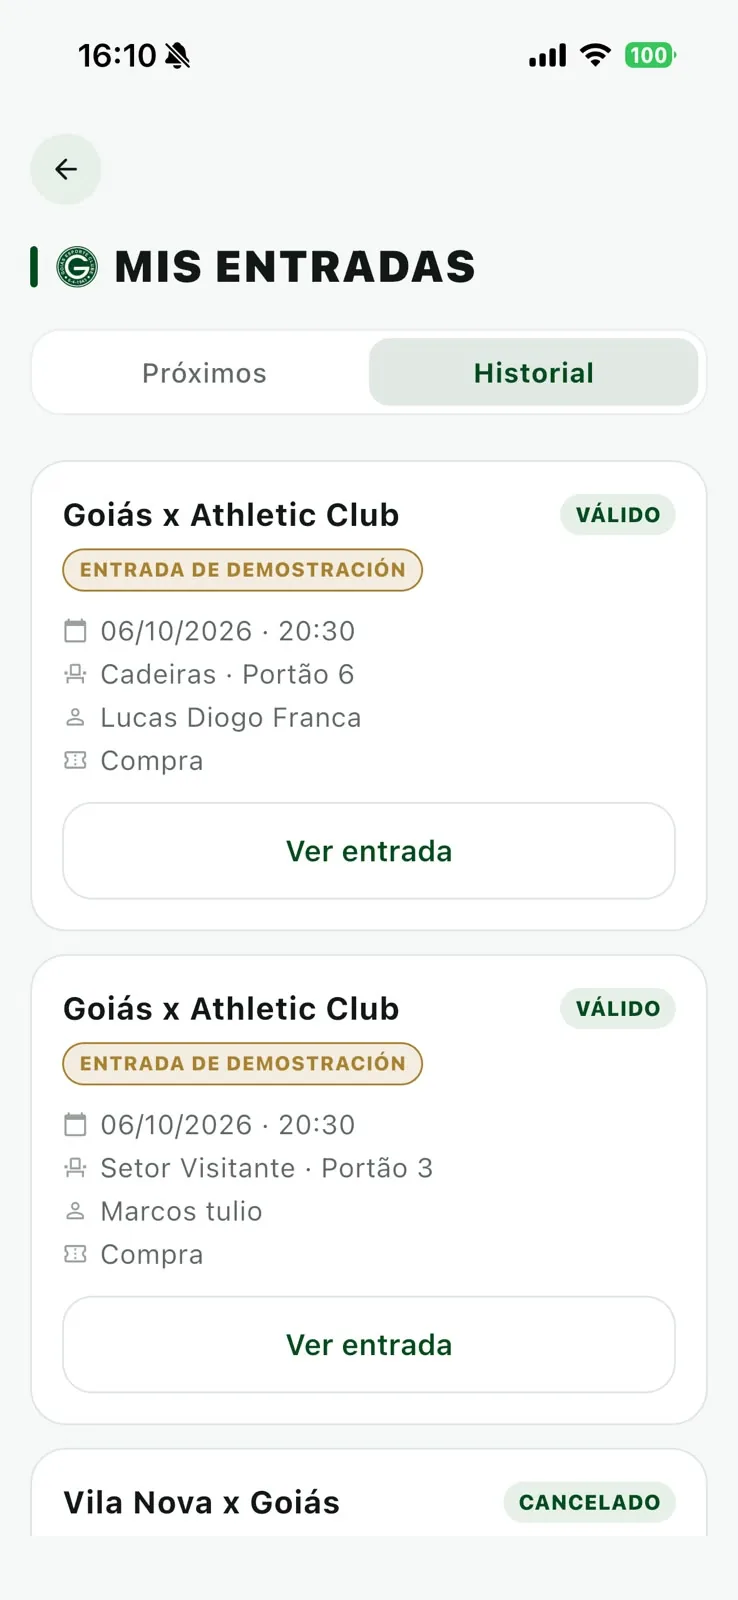
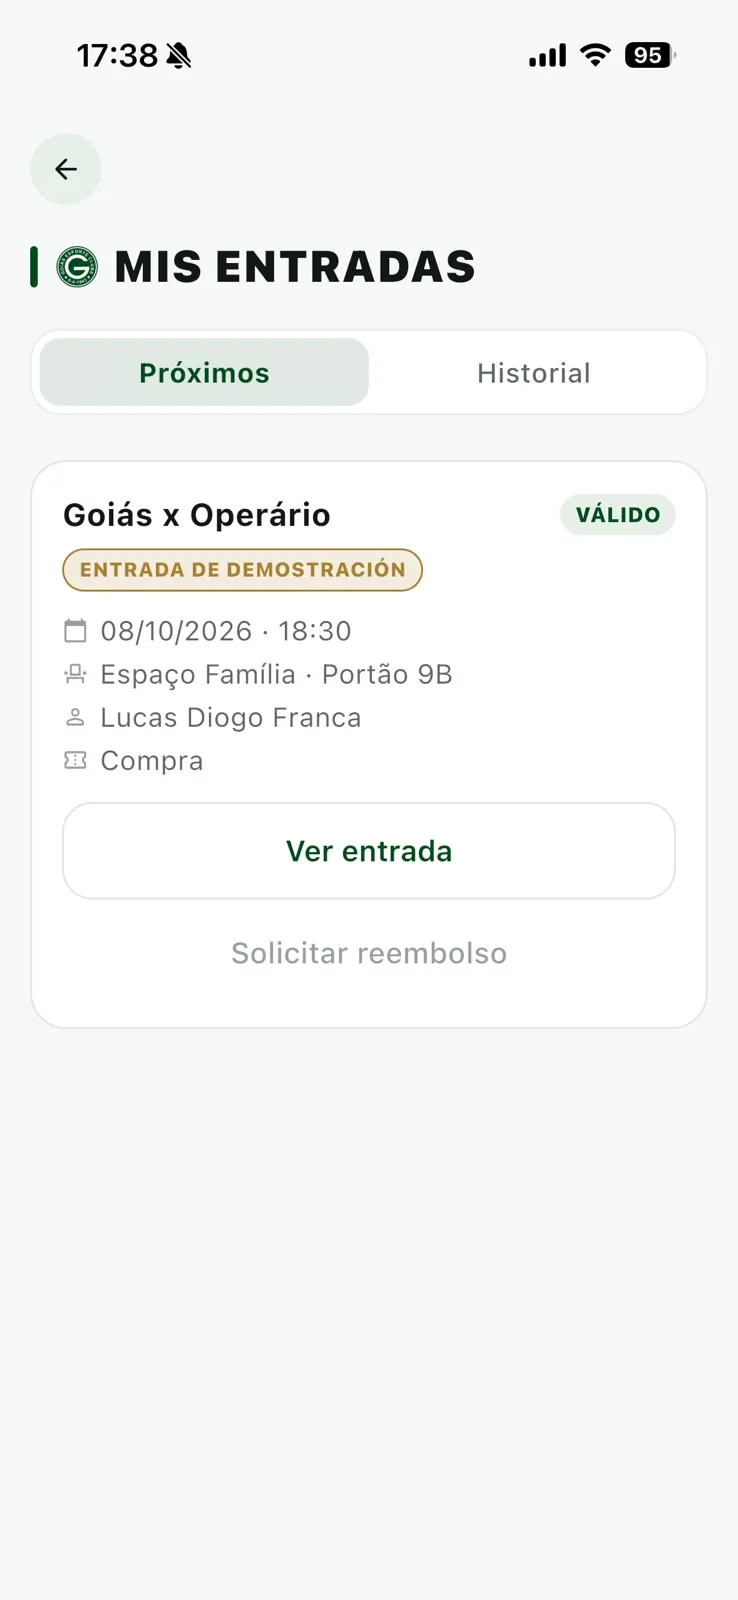
Apps: add Tabela Fone (RetailTech); Goiás App EN/ES ticket and lineup screens, no personal data

diff --git a/tests/i18n.test.js b/tests/i18n.test.js
@@ -85,10 +85,10 @@ check(fake.store[Loc.STORAGE_KEY] === "es" && Object.keys(fake.store).length ===
 var actx = { window: {} };
 vm.runInNewContext(read("assets/js/apps-data.js"), actx);
 var A = actx.window.LUCKSREI_APPS;
-check(A.apps.length === 32, "dataset deve continuar com 32 apps, tem " + A.apps.length);
+check(A.apps.length === 33, "dataset deve continuar com 33 apps, tem " + A.apps.length);
 var ids = {};
 A.apps.forEach(function (a) { check(!ids[a.id], "app duplicado: " + a.id); ids[a.id] = 1; });
-check(Object.keys(ids).length === 32, "idiomas não devem duplicar apps");
+check(Object.keys(ids).length === 33, "idiomas não devem duplicar apps");
 A.apps.forEach(function (a) {
   if (a.subtitle && typeof a.subtitle === "object") Loc.SUPPORTED.forEach(function (l) { check(typeof a.subtitle[l] === "string" && a.subtitle[l], a.id + ": subtitle sem " + l); });
   if (a.subtitleKey) Loc.SUPPORTED.forEach(function (l) { check(D[l][a.subtitleKey], a.id + ": subtitleKey ausente em " + l); });
@@ -168,10 +168,10 @@ check(Shots.slotFor("lapelve", "home", "en").src.indexOf("/screens/en/home.webp"
 check(Shots.slotFor("lapelve", "home", "pt-BR").src.indexOf("/screens/pt-BR/home.webp") > 0, "la pelve home pt-BR usa a versão pt-BR");
 check(Shots.slotFor("lapelve", "home", "es") === null, "la pelve home es inexistente → null (sem fallback)");
 var model = Shots.buildScreenshots("fanhub", "b2", function (k, v, l) { return D[l][k]; });
-check(model["pt-BR"].length === 12 && Shots.blockFor("fanhub", "b3", "pt-BR").length === 11 && Shots.blockFor("fanhub", "b4", "pt-BR").length === 7 && Shots.blockFor("fanhub", "b5", "pt-BR").length === 10 && Shots.blockFor("fanhub", "b5", "en").length === 8 && model.en.length === 12 && Shots.blockFor("fanhub", "b3", "en").length === 11 && Shots.blockFor("fanhub", "b4", "en").map(function (s) { return s.id; }).join() === "my-tickets,ticket,member-signup" && model.es.length === 12 && Shots.blockFor("fanhub", "b3", "es").length === 11 && Shots.blockFor("fanhub", "b4", "es").map(function (s) { return s.id; }).join() === "my-tickets,ticket,member-signup" && Shots.blockFor("fanhub", "b5", "es").length === 8, "modelo por locale do fan hub (pt-BR completo, en e es parciais)");
+check(model["pt-BR"].length === 12 && Shots.blockFor("fanhub", "b3", "pt-BR").length === 11 && Shots.blockFor("fanhub", "b4", "pt-BR").length === 7 && Shots.blockFor("fanhub", "b5", "pt-BR").length === 10 && Shots.blockFor("fanhub", "b5", "en").length === 8 && model.en.length === 12 && Shots.blockFor("fanhub", "b3", "en").length === 11 && Shots.blockFor("fanhub", "b4", "en").map(function (s) { return s.id; }).join() === "tickets,ticket-sectors,purchase,purchased,my-tickets,ticket,member-signup" && model.es.length === 12 && Shots.blockFor("fanhub", "b3", "es").length === 11 && Shots.blockFor("fanhub", "b4", "es").map(function (s) { return s.id; }).join() === "tickets,ticket-sectors,purchase,purchased,my-tickets,ticket,member-signup" && Shots.blockFor("fanhub", "b5", "es").length === 10, "modelo por locale do fan hub (pt-BR e es completos; en sem crowd/pitch)");
 check(["play", "queue-search", "teams-explore", "central", "players", "player-detail", "market"].every(function (s) { return Shots.slotFor("matchqueue", s, "es") && fs.existsSync(path.join(root, "assets/img/match-queue/screens/es", s + ".webp")); }), "match queue: telas em espanhol existem no manifesto e em disco");
 check(Shots.blockFor("fanhub", "b2", "pt-BR").every(function (s) { return fs.existsSync(path.join(root, s.src.replace(/^\//, ""))); }), "fan hub b2: todo arquivo do manifesto existe");
 check(model["pt-BR"].every(function (x) { return x.src.indexOf("/pt-BR/") > 0 && x.alt; }), "itens do modelo têm src e alt do próprio idioma");
 
 if (failures.length) { console.error("FALHOU:\n - " + failures.join("\n - ")); process.exit(1); }
-console.log("ok — i18n: " + enKeys.length + " strings × 3 locales; " + proj.length + " projetos de screenshots; 32 apps");
+console.log("ok — i18n: " + enKeys.length + " strings × 3 locales; " + proj.length + " projetos de screenshots; 33 apps");

diff --git a/assets/i18n/es.js b/assets/i18n/es.js
@@ -199,7 +199,7 @@
   "apps.own_tag": "Producto propio",
   "apps.private": "Proyecto privado",
   "apps.s1.div1": "<a href=\"/\">Lucksrei</a> / Apps",
-  "apps.s1.div2": "<span class=\"chip\">Fintech</span><span class=\"chip\">Banking white-label</span> <span class=\"chip\">InsurTech</span><span class=\"chip\">AgroTech</span> <span class=\"chip\">GovTech</span><span class=\"chip\">Movilidad</span> <span class=\"chip\">Educación</span><span class=\"chip\">Salud</span> <span class=\"chip\">Deportes</span><span class=\"chip\">Games</span>",
+  "apps.s1.div2": "<span class=\"chip\">Fintech</span><span class=\"chip\">Banking white-label</span> <span class=\"chip\">InsurTech</span><span class=\"chip\">AgroTech</span> <span class=\"chip\">GovTech</span><span class=\"chip\">Movilidad</span> <span class=\"chip\">Educación</span><span class=\"chip\">Salud</span> <span class=\"chip\">Deportes</span><span class=\"chip\">Games</span><span class=\"chip\">RetailTech</span>",
   "apps.s1.h11": "Apps y productos",
   "apps.s1.p1": "Apps en las que trabajé, desde productos propios hasta marcas white-label. Los case studies de mis productos están en <a href=\"/#projetos\">Proyectos</a>.",
   "apps.s1.span1": "Amplitud",
@@ -216,6 +216,7 @@
   "apps.sector.insurtech": "InsurTech",
   "apps.sector.management": "Gestión",
   "apps.sector.mobility": "Movilidad",
+  "apps.sector.retailtech": "RetailTech",
   "apps.sector.sports": "Deportes",
   "apps.store_android_aria": "Ver {name} en Google Play (se abre en una pestaña nueva)",
   "apps.store_ios_aria": "Ver {name} en la App Store (se abre en una pestaña nueva)",
@@ -516,7 +517,7 @@
   "shots.fanhub.tickets.alt": "Pantalla de entradas con el próximo evento, botón de compra y acceso rápido a mis entradas y pedidos",
   "shots.fanhub.tickets.caption": "Compra de entradas desde el próximo partido.",
   "shots.fanhub.tickets.title": "Entradas",
-  "shots.fanhub.ticket-sectors.alt": "Selección de sector y cantidad de entradas por categoría, con el sector visitante",
+  "shots.fanhub.ticket-sectors.alt": "Selección de sector y cantidad de entradas por categoría, con sectores de la hinchada local y precios",
   "shots.fanhub.ticket-sectors.caption": "Sector, categoría y cantidad en una pantalla.",
   "shots.fanhub.ticket-sectors.title": "Sectores",
   "shots.fanhub.purchase.alt": "Resumen de la compra con ítems, total, datos de los titulares y aviso de demostración",
@@ -525,7 +526,7 @@
   "shots.fanhub.purchased.alt": "Confirmación de entrada comprada con acceso directo a Mis entradas",
   "shots.fanhub.purchased.caption": "Confirmación con acceso directo a la entrada.",
   "shots.fanhub.purchased.title": "Compra completada",
-  "shots.fanhub.my-tickets.alt": "Historial de entradas con el sello de demostración y el estado de cada una, válida o cancelada",
+  "shots.fanhub.my-tickets.alt": "Mis entradas con una entrada de demostración próxima y válida, su sector, titular y opción de reembolso",
   "shots.fanhub.my-tickets.caption": "Entradas próximas e historial.",
   "shots.fanhub.my-tickets.title": "Mis entradas",
   "shots.fanhub.ticket.alt": "Entrada digital con datos del partido, sector, titular y código QR, marcada como demostración",

diff --git a/assets/i18n/en.js b/assets/i18n/en.js
@@ -199,7 +199,7 @@
   "apps.own_tag": "Own product",
   "apps.private": "Private project",
   "apps.s1.div1": "<a href=\"/\">Lucksrei</a> / Apps",
-  "apps.s1.div2": "<span class=\"chip\">Fintech</span><span class=\"chip\">Banking white-label</span> <span class=\"chip\">InsurTech</span><span class=\"chip\">AgroTech</span> <span class=\"chip\">GovTech</span><span class=\"chip\">Mobility</span> <span class=\"chip\">Education</span><span class=\"chip\">Health</span> <span class=\"chip\">Sports</span><span class=\"chip\">Games</span>",
+  "apps.s1.div2": "<span class=\"chip\">Fintech</span><span class=\"chip\">Banking white-label</span> <span class=\"chip\">InsurTech</span><span class=\"chip\">AgroTech</span> <span class=\"chip\">GovTech</span><span class=\"chip\">Mobility</span> <span class=\"chip\">Education</span><span class=\"chip\">Health</span> <span class=\"chip\">Sports</span><span class=\"chip\">Games</span><span class=\"chip\">RetailTech</span>",
   "apps.s1.h11": "Apps and products",
   "apps.s1.p1": "Apps I've worked on, from my own products to white-label brands. The case studies for my own products are under <a href=\"/#projetos\">Projects</a>.",
   "apps.s1.span1": "Breadth",
@@ -216,6 +216,7 @@
   "apps.sector.insurtech": "InsurTech",
   "apps.sector.management": "Management",
   "apps.sector.mobility": "Mobility",
+  "apps.sector.retailtech": "RetailTech",
   "apps.sector.sports": "Sports",
   "apps.store_android_aria": "View {name} on Google Play (opens in a new tab)",
   "apps.store_ios_aria": "View {name} on the App Store (opens in a new tab)",
@@ -516,7 +517,7 @@
   "shots.fanhub.tickets.alt": "Tickets screen with the next event, buy button and quick access to my tickets and orders",
   "shots.fanhub.tickets.caption": "Ticket purchase from the next match.",
   "shots.fanhub.tickets.title": "Tickets",
-  "shots.fanhub.ticket-sectors.alt": "Sector and ticket quantity selection by category, with the visitors sector",
+  "shots.fanhub.ticket-sectors.alt": "Sector and ticket quantity selection by category, with home fans sectors and prices",
   "shots.fanhub.ticket-sectors.caption": "Sector, category and quantity on one screen.",
   "shots.fanhub.ticket-sectors.title": "Sectors",
   "shots.fanhub.purchase.alt": "Purchase summary with items, total, holder details and a demo notice",
@@ -525,7 +526,7 @@
   "shots.fanhub.purchased.alt": "Ticket purchase confirmation with a shortcut to My tickets",
   "shots.fanhub.purchased.caption": "Confirmation with a shortcut to the ticket.",
   "shots.fanhub.purchased.title": "Purchase complete",
-  "shots.fanhub.my-tickets.alt": "Ticket history with demo badges and the status of each ticket, valid or cancelled",
+  "shots.fanhub.my-tickets.alt": "My tickets with an upcoming demo ticket marked valid, its sector, holder and a refund option",
   "shots.fanhub.my-tickets.caption": "Upcoming tickets and history.",
   "shots.fanhub.my-tickets.title": "My tickets",
   "shots.fanhub.ticket.alt": "Digital ticket with match details, sector, holder and QR code, marked as a demo",

diff --git a/assets/js/apps-data.js b/assets/js/apps-data.js
@@ -8,7 +8,7 @@
  *   subtitle    contexto/empresa. String (nome próprio) ou { en, 'pt-BR', es }
  *   subtitleKey chave i18n alternativa ao subtitle (ex.: 'apps.ecosystem')
  *   group       'own' (meus produtos) | 'professional' | 'cooper'
- *   sector      id do setor (fintech, insurtech, agtech, govtech, mobility, management, education, health, sports, games, banking) → apps.sector.<id>
+ *   sector      id do setor (fintech, insurtech, agtech, govtech, retailtech, mobility, management, education, health, sports, games, banking) → apps.sector.<id>
  *   logo        caminho do logo; null = placeholder com iniciais.
  *               Para trocar o fallback: salve o arquivo em assets/img/apps/<id>.webp
  *               (128x128) e escreva aqui '/assets/img/apps/<id>.webp'.
@@ -27,7 +27,7 @@
  * Nenhum número de downloads/avaliação foi confirmado até aqui: tudo null.
  *
  * TOTAIS ESPERADOS (conferidos por tests/apps-data.test.js e no console da página):
- *   own 4 + professional 8 + cooper 20 = 32.
+ *   own 4 + professional 9 + cooper 20 = 33.
  */
 (function () {
   "use strict";
@@ -42,7 +42,7 @@
   }
 
   window.LUCKSREI_APPS = {
-    expected: { own: 4, professional: 8, cooper: 20, total: 32 },
+    expected: { own: 4, professional: 9, cooper: 20, total: 33 },
     featured: ['fan-hub', 'toro', 'iza', 'aprovaura', 'cooper-pay'],
     // textos dos grupos: apps.filter.<id>, apps.group.<id>.title|intro (assets/i18n)
     groups: [{ id: 'own' }, { id: 'professional' }, { id: 'cooper' }],
@@ -73,6 +73,11 @@
         androidUrl: 'https://play.google.com/store/apps/details?id=vc.com.iza.izaapp&hl=pt_BR',
         iosUrl: 'https://apps.apple.com/br/app/iza-seguradora-s-a/id1526181722',
         downloads: null, rating: null, reviewCount: null, period: '2020-10/2021-03', technologies: ['Flutter', 'Firebase'] },
+      { id: 'tabela-fone', name: 'Tabela Fone', subtitle: { en: 'Price intelligence for used phone retailers', 'pt-BR': 'Inteligência de preços para lojistas de celulares usados', es: 'Inteligencia de precios para tiendas de celulares usados' }, group: 'professional', sector: 'retailtech',
+        logo: '/assets/img/apps/tabela-fone.webp', platforms: ['android', 'ios'],
+        androidUrl: 'https://play.google.com/store/apps/details?id=com.tabelafone.app&hl=pt_BR',
+        iosUrl: 'https://apps.apple.com/br/app/tabela-fone/id6781041082',
+        downloads: null, rating: null, reviewCount: null, period: '2026-03/2026-09', technologies: ['Flutter', 'Supabase', 'Cubit/BLoC'] },
       { id: 'boosteragro', name: 'BoosterAGRO', subtitle: { en: 'Digital agriculture', 'pt-BR': 'Agricultura digital', es: 'Agricultura digital' }, group: 'professional', sector: 'agtech',
         logo: '/assets/img/apps/boosteragro.webp', platforms: ['android', 'ios'],
         androidUrl: 'https://play.google.com/store/apps/details?id=com.boosteragtech.boosteragro&hl=pt_BR',

diff --git a/assets/js/screenshots-data.js b/assets/js/screenshots-data.js
@@ -554,45 +554,85 @@
       },
       "tickets": {
         "locales": [
-          "pt-BR"
+          "pt-BR",
+          "en",
+          "es"
         ],
         "dims": {
           "pt-BR": [
             590,
             1280
+          ],
+          "en": [
+            738,
+            1600
+          ],
+          "es": [
+            738,
+            1600
           ]
         }
       },
       "ticket-sectors": {
         "locales": [
-          "pt-BR"
+          "pt-BR",
+          "en",
+          "es"
         ],
         "dims": {
           "pt-BR": [
             590,
             1280
+          ],
+          "en": [
+            738,
+            1600
+          ],
+          "es": [
+            738,
+            1600
           ]
         }
       },
       "purchase": {
         "locales": [
-          "pt-BR"
+          "pt-BR",
+          "en",
+          "es"
         ],
         "dims": {
           "pt-BR": [
             590,
             1280
+          ],
+          "en": [
+            738,
+            1600
+          ],
+          "es": [
+            738,
+            1600
           ]
         }
       },
       "purchased": {
         "locales": [
-          "pt-BR"
+          "pt-BR",
+          "en",
+          "es"
         ],
         "dims": {
           "pt-BR": [
             590,
             1280
+          ],
+          "en": [
+            738,
+            1600
+          ],
+          "es": [
+            738,
+            1600
           ]
         }
       },
@@ -703,23 +743,33 @@
       },
       "crowd": {
         "locales": [
-          "pt-BR"
+          "pt-BR",
+          "es"
         ],
         "dims": {
           "pt-BR": [
             590,
             1280
+          ],
+          "es": [
+            738,
+            1600
           ]
         }
       },
       "pitch": {
         "locales": [
-          "pt-BR"
+          "pt-BR",
+          "es"
         ],
         "dims": {
           "pt-BR": [
             590,
             1280
+          ],
+          "es": [
+            738,
+            1600
           ]
         }
       },

diff --git a/tests/apps-data.test.js b/tests/apps-data.test.js
@@ -11,9 +11,9 @@ var failures = [];
 function check(ok, msg) { if (!ok) failures.push(msg); }
 function count(g) { return d.apps.filter(function (a) { return a.group === g; }).length; }
 
-check(d.apps.length === 32, "total deve ser 32, é " + d.apps.length);
+check(d.apps.length === 33, "total deve ser 33, é " + d.apps.length);
 check(count("own") === 4, "own deve ser 4, é " + count("own"));
-check(count("professional") === 8, "professional deve ser 8, é " + count("professional"));
+check(count("professional") === 9, "professional deve ser 9, é " + count("professional"));
 check(count("cooper") === 20, "cooper deve ser 20, é " + count("cooper"));
 var ids = {};
 d.apps.forEach(function (a) {
@@ -34,11 +34,11 @@ d.apps.forEach(function (a) {
   });
 });
 
-// logos publicadas: 32 WebP, todas referenciadas, nenhuma via /src/
+// logos publicadas: 33 WebP, todas referenciadas, nenhuma via /src/
 var published = fs.readdirSync(path.join(root, "assets/img/apps")).filter(function (n) { return /\.webp$/.test(n); });
-check(published.length === 32, "logos publicadas devem ser 32, são " + published.length);
+check(published.length === 33, "logos publicadas devem ser 33, são " + published.length);
 var referenced = d.apps.filter(function (a) { return a.logo; }).map(function (a) { return path.basename(a.logo); });
-check(referenced.length === 32, "apps com logo devem ser 32, são " + referenced.length);
+check(referenced.length === 33, "apps com logo devem ser 33, são " + referenced.length);
 published.forEach(function (n) { check(referenced.indexOf(n) >= 0, "logo publicada sem app: " + n); });
 d.apps.forEach(function (a) {
   if (a.logo && a.group === "cooper") check(path.basename(a.logo, ".webp") === a.id, "logo/id divergem em " + a.id);

diff --git a/assets/i18n/pt-BR.js b/assets/i18n/pt-BR.js
@@ -199,7 +199,7 @@
   "apps.own_tag": "Produto próprio",
   "apps.private": "Projeto privado",
   "apps.s1.div1": "<a href=\"/\">Lucksrei</a> / Apps",
-  "apps.s1.div2": "<span class=\"chip\">Fintech</span><span class=\"chip\">Banking white-label</span> <span class=\"chip\">InsurTech</span><span class=\"chip\">AgroTech</span> <span class=\"chip\">GovTech</span><span class=\"chip\">Mobilidade</span> <span class=\"chip\">Educação</span><span class=\"chip\">Saúde</span> <span class=\"chip\">Esportes</span><span class=\"chip\">Games</span>",
+  "apps.s1.div2": "<span class=\"chip\">Fintech</span><span class=\"chip\">Banking white-label</span> <span class=\"chip\">InsurTech</span><span class=\"chip\">AgroTech</span> <span class=\"chip\">GovTech</span><span class=\"chip\">Mobilidade</span> <span class=\"chip\">Educação</span><span class=\"chip\">Saúde</span> <span class=\"chip\">Esportes</span><span class=\"chip\">Games</span><span class=\"chip\">RetailTech</span>",
   "apps.s1.h11": "Apps e produtos",
   "apps.s1.p1": "Apps em que trabalhei, de produtos meus a marcas white-label. Os case studies dos meus produtos estão em <a href=\"/#projetos\">Projetos</a>.",
   "apps.s1.span1": "Amplitude",
@@ -216,6 +216,7 @@
   "apps.sector.insurtech": "InsurTech",
   "apps.sector.management": "Gestão",
   "apps.sector.mobility": "Mobilidade",
+  "apps.sector.retailtech": "RetailTech",
   "apps.sector.sports": "Esportes",
   "apps.store_android_aria": "Ver {name} no Google Play (abre em nova aba)",
   "apps.store_ios_aria": "Ver {name} na App Store (abre em nova aba)",

diff --git a/index.html b/index.html
@@ -129,7 +129,7 @@
         <span class="apps-cta-copy" data-i18n="home.s2.p1"><strong>Explore the full portfolio</strong>Fintech, insurance, agro, government, mobility and more: every app I've worked on, with store links.</span>
         <span class="apps-cta-side">
           <span class="apps-stack" id="apps-stack" aria-hidden="true"><img src="/assets/img/apps/fan-hub.webp" alt="" width="32" height="32" loading="lazy"><img src="/assets/img/apps/toro-investimentos.webp" alt="" width="32" height="32" loading="lazy"><img src="/assets/img/apps/iza.webp" alt="" width="32" height="32" loading="lazy"><img src="/assets/img/apps/aprovaura.webp" alt="" width="32" height="32" loading="lazy"><img src="/assets/img/apps/cooper-pay.webp" alt="" width="32" height="32" loading="lazy"></span>
-          <span class="apps-more" id="apps-more" aria-hidden="true">+27</span>
+          <span class="apps-more" id="apps-more" aria-hidden="true">+28</span>
           <span class="link-arrow apps-cta-btn" data-i18n="home.s2.span1">See all apps <span aria-hidden="true">→</span></span>
         </span>
       </a>

diff --git a/apps/index.html b/apps/index.html
@@ -71,7 +71,7 @@
       </div>
       <div>
         <span class="apps-sectors-label" data-i18n="apps.s1.span2">Sectors · Android &amp; iOS</span>
-        <div class="apps-sectors" data-i18n="apps.s1.div2"><span class="chip">Fintech</span><span class="chip">Banking white-label</span> <span class="chip">InsurTech</span><span class="chip">AgroTech</span> <span class="chip">GovTech</span><span class="chip">Mobility</span> <span class="chip">Education</span><span class="chip">Health</span> <span class="chip">Sports</span><span class="chip">Games</span></div>
+        <div class="apps-sectors" data-i18n="apps.s1.div2"><span class="chip">Fintech</span><span class="chip">Banking white-label</span> <span class="chip">InsurTech</span><span class="chip">AgroTech</span> <span class="chip">GovTech</span><span class="chip">Mobility</span> <span class="chip">Education</span><span class="chip">Health</span> <span class="chip">Sports</span><span class="chip">Games</span><span class="chip">RetailTech</span></div>
       </div>
     </div>
   </section>
